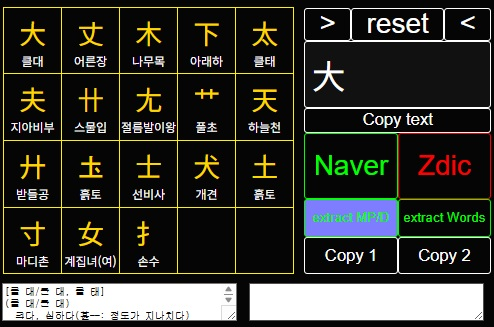
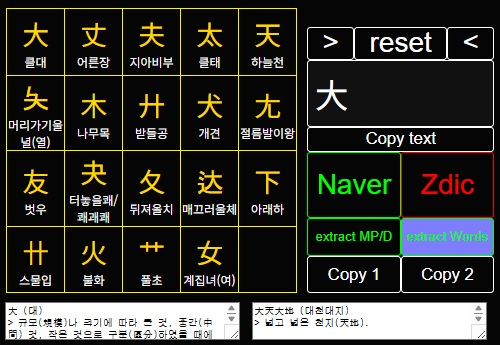
feat: extract hanja words and idioms via naver API

diff --git a/public/js/mainScript.js b/public/js/mainScript.js
@@ -4,66 +4,54 @@ document.addEventListener("DOMContentLoaded", () => {
   const btnPen   = document.getElementById("btnPen");
   const btnErase = document.getElementById("btnErase");
   const btnClear = document.getElementById("btnClear");
-  const ocrCanvas = document.getElementById("ocrCanvas");
-  const ctx = ocrCanvas.getContext("2d");
+  const ocrCanvas      = document.getElementById("ocrCanvas");
+  const ctx            = ocrCanvas.getContext("2d");
   const searchText     = document.getElementById("searchText");
   const ocrResultTable = document.getElementById("ocrResultTable");
   const TA_1 = document.getElementById("TA_1");
+  const TA_2 = document.getElementById("TA_2");
 
-  let currentMode = "pen";
-  let isDrawing   = false;
-  let currentStroke = [];
-  let strokes = [];
+  let currentMode = "pen", isDrawing = false, currentStroke = [], strokes = [];
 
-  btnPen.disabled  = true;
-  btnErase.disabled = false;
+  btnPen.disabled = true; btnErase.disabled = false;
 
   function switchMode(mode) {
     currentMode = mode;
-    btnPen.disabled   = (mode === "pen");
-    btnErase.disabled = (mode === "erase");
+    btnPen.disabled = (mode === "pen"); btnErase.disabled = (mode === "erase");
   }
   btnPen.addEventListener("click",   () => switchMode("pen"));
   btnErase.addEventListener("click", () => switchMode("erase"));
   btnClear.addEventListener("click", () => {
-    strokes = [];
-    ctx.clearRect(0, 0, ocrCanvas.width, ocrCanvas.height);
-    runOCR([]);
+    strokes = []; ctx.clearRect(0, 0, ocrCanvas.width, ocrCanvas.height); runOCR([]);
     if (currentMode === "erase") switchMode("pen");
   });
 
-  function getMousePos(e) {
-    const rect = ocrCanvas.getBoundingClientRect();
-    return { x: e.clientX - rect.left, y: e.clientY - rect.top };
-  }
-  function drawLine(points) {
-    if (points.length < 2) return;
+  function getMousePos(e) { const r = ocrCanvas.getBoundingClientRect(); return { x: e.clientX - r.left, y: e.clientY - r.top }; }
+  function drawLine(pts) {
+    if (pts.length < 2) return;
     ctx.strokeStyle = "#ffffff"; ctx.lineWidth = 5; ctx.lineCap = "round";
-    ctx.beginPath(); ctx.moveTo(points[0].x, points[0].y);
-    for (let i = 1; i < points.length; i++) ctx.lineTo(points[i].x, points[i].y);
+    ctx.beginPath(); ctx.moveTo(pts[0].x, pts[0].y);
+    for (let i = 1; i < pts.length; i++) ctx.lineTo(pts[i].x, pts[i].y);
     ctx.stroke();
   }
-  function redrawCanvas() {
-    ctx.clearRect(0, 0, ocrCanvas.width, ocrCanvas.height);
-    for (const s of strokes) drawLine(s);
-  }
-  function distanceToSegment(p, a, b) {
+  function redraw() { ctx.clearRect(0, 0, ocrCanvas.width, ocrCanvas.height); strokes.forEach(s => drawLine(s)); }
+  function distSeg(p, a, b) {
     const dx = b.x - a.x, dy = b.y - a.y;
-    if (dx === 0 && dy === 0) return Math.hypot(p.x - a.x, p.y - a.y);
+    if (!dx && !dy) return Math.hypot(p.x - a.x, p.y - a.y);
     const t = Math.max(0, Math.min(1, ((p.x - a.x) * dx + (p.y - a.y) * dy) / (dx * dx + dy * dy)));
     return Math.hypot(p.x - (a.x + t * dx), p.y - (a.y + t * dy));
   }
   function eraseAt(pos) {
     for (let i = 0; i < strokes.length; i++)
       for (let j = 0; j < strokes[i].length - 1; j++)
-        if (distanceToSegment(pos, strokes[i][j], strokes[i][j + 1]) <= 10) {
-          strokes.splice(i, 1); redrawCanvas(); runOCR(strokes); return;
+        if (distSeg(pos, strokes[i][j], strokes[i][j+1]) <= 10) {
+          strokes.splice(i, 1); redraw(); runOCR(strokes); return;
         }
   }
   ocrCanvas.addEventListener("mousedown", e => {
     const pos = getMousePos(e);
     if (currentMode === "pen") { isDrawing = true; currentStroke = [pos]; }
-    else if (currentMode === "erase") eraseAt(pos);
+    else eraseAt(pos);
   });
   ocrCanvas.addEventListener("mousemove", e => {
     const pos = getMousePos(e);
@@ -78,23 +66,17 @@ document.addEventListener("DOMContentLoaded", () => {
   window.addEventListener("mouseup", endStroke);
   ocrCanvas.addEventListener("mouseleave", endStroke);
 
-  function compressStrokes(raw) {
-    return raw.map(s => ({ s: s.length, xy: s.map(p => [Math.floor(p.x*(283/399)), Math.floor(p.y*(283/399))]) }));
-  }
-  function buildInputStr(info) {
+  function compress(raw) { return raw.map(s => ({ s: s.length, xy: s.map(p => [Math.floor(p.x*(283/399)), Math.floor(p.y*(283/399))]) })); }
+  function buildStr(info) {
     let s = "%3DR%20" + info.length;
-    info.forEach(stroke => {
-      s += "%0A%3DS%20" + stroke.s + "%0A";
-      stroke.xy.forEach(([x, y]) => s += x + "%20" + y + "%20");
-    });
+    info.forEach(stroke => { s += "%0A%3DS%20" + stroke.s + "%0A"; stroke.xy.forEach(([x,y]) => s += x + "%20" + y + "%20"); });
     return s;
   }
   async function runOCR(raw) {
     const cells = ocrResultTable.querySelectorAll("td");
-    if (!raw || raw.length === 0) { cells.forEach(c => c.innerHTML = ""); return; }
-    const inputStr = buildInputStr(compressStrokes(raw));
+    if (!raw || !raw.length) { cells.forEach(c => c.innerHTML = ""); return; }
     try {
-      const res = await fetch("/api/ocr", { method:"POST", headers:{"Content-Type":"application/json"}, body: JSON.stringify({ inputStr }) });
+      const res = await fetch("/api/ocr", { method:"POST", headers:{"Content-Type":"application/json"}, body: JSON.stringify({ inputStr: buildStr(compress(raw)) }) });
       const data = await res.json();
       const items = data.content.split(";").filter(Boolean);
       cells.forEach(c => c.innerHTML = "");
@@ -102,35 +84,27 @@ document.addEventListener("DOMContentLoaded", () => {
       for (let i = 0; i < Math.min(items.length, 20); i++) {
         const [char, desc] = items[i].split(",");
         if (!desc) continue;
-        cells[idx].innerHTML = `<div style="font-size:40px;color:gold;text-align:center">${char}</div><div style="font-size:18px;text-align:center">${desc}</div>`;
-        idx++;
+        cells[idx++].innerHTML = `<div style="font-size:40px;color:gold;text-align:center">${char}</div><div style="font-size:18px;text-align:center">${desc}</div>`;
       }
-    } catch (err) { console.error("OCR 요청 실패:", err); }
+    } catch (err) { console.error("OCR 실패:", err); }
   }
 
-  // Table cell click
   ocrResultTable.querySelectorAll("td").forEach(cell => {
     cell.addEventListener("click", () => {
-      if (cell.innerHTML.trim()) {
-        const d = cell.querySelectorAll("div");
-        if (d.length > 0) searchText.value += d[0].textContent.trim();
-      }
+      if (cell.innerHTML.trim()) { const d = cell.querySelectorAll("div"); if (d.length) searchText.value += d[0].textContent.trim(); }
     });
   });
 
-  // Text edit buttons
   document.getElementById("btnTextEraseL").addEventListener("click", () => searchText.value = searchText.value.slice(1));
   document.getElementById("btnTextEraseR").addEventListener("click", () => searchText.value = searchText.value.slice(0, -1));
   document.getElementById("btnTextReset").addEventListener("click",  () => searchText.value = "");
-  document.getElementById("btnCopyText").addEventListener("click", () => { searchText.focus(); searchText.select(); document.execCommand("copy"); });
+  document.getElementById("btnCopyText").addEventListener("click",   () => { searchText.focus(); searchText.select(); document.execCommand("copy"); });
 
-  // Naver search
   document.getElementById("btnSearchN").addEventListener("click", () => {
     const q = searchText.value.trim();
     if (q) window.open("https://hanja.dict.naver.com/#/search?query=" + encodeURIComponent(q), "_blank");
   });
 
-  // ExtractMP
   document.getElementById("btnExtractMP").addEventListener("click", async () => {
     const sText = searchText.value.trim();
     if (!sText) { alert("검색어가 비어 있습니다."); return; }
@@ -138,9 +112,23 @@ document.addEventListener("DOMContentLoaded", () => {
       const res = await fetch("/api/ExtractMP", { method:"POST", headers:{"Content-Type":"application/json"}, body: JSON.stringify({ text: sText }) });
       const result = await res.json();
       const d = result["data"];
-      TA_1.value = d["MP"] + "\n\n" + JSON.parse(d["learningMoreList"]).join("\n\n");
+      TA_1.value = d["MP"];
+      TA_2.value = JSON.parse(d["learningMoreList"]).join("\n\n");
+    } catch (err) { alert("네트워크 오류: " + err.message); }
+  });
+
+  document.getElementById("btnExtractWords").addEventListener("click", async () => {
+    const sText = searchText.value.trim();
+    if (!sText) { alert("검색어가 비어 있습니다."); return; }
+    try {
+      const res = await fetch("/api/ExtractWords", { method:"POST", headers:{"Content-Type":"application/json"}, body: JSON.stringify({ text: sText }) });
+      const result = await res.json();
+      const d = result["data"];
+      TA_1.value = d["Words"];
+      TA_2.value = d["Idioms"];
     } catch (err) { alert("네트워크 오류: " + err.message); }
   });
 
   document.getElementById("btnCopyText1").addEventListener("click", () => { TA_1.focus(); TA_1.select(); document.execCommand("copy"); });
+  document.getElementById("btnCopyText2").addEventListener("click", () => { TA_2.focus(); TA_2.select(); document.execCommand("copy"); });
 });

diff --git a/server.js b/server.js
@@ -12,7 +12,6 @@ app.use(express.static('public'));
 app.use(express.json());
 app.use(express.static('./public'));
 
-// 획(좌표) 정보에 대해 OCR 요청 전송
 app.post("/api/ocr", async (req, res) => {
   try {
     const inputStr = req.body.inputStr;
@@ -31,13 +30,11 @@ app.post("/api/ocr", async (req, res) => {
   }
 });
 
-// 뜻음 + 기원설명 추출
 app.post("/api/ExtractMP", async (req, res) => {
   try {
     const hanjaText = req.body.text;
-    if (!hanjaText || typeof hanjaText !== "string") {
+    if (!hanjaText || typeof hanjaText !== "string")
       return res.json({ success: false, error: "유효하지 않은 입력입니다." });
-    }
 
     const headers = {
       "User-Agent": "Mozilla/5.0 (Windows NT 10.0; Win64; x64) AppleWebKit/537.36 (KHTML, like Gecko) Chrome/135.0.0.0 Safari/537.36 Edg/135.0.0.0",
@@ -46,20 +43,17 @@ app.post("/api/ExtractMP", async (req, res) => {
     };
 
     const searchUrl = `https://hanja.dict.naver.com/api3/ccko/search?query=${encodeURIComponent(hanjaText)}&m=pc&range=letter&page=1`;
-    const searchResp = await fetch(searchUrl, { headers });
-    const searchData = await searchResp.json().catch(() => null);
+    const searchData = await (await fetch(searchUrl, { headers })).json().catch(() => null);
     if (!searchData) return res.json({ success: false, error: "1. search request error" });
 
     const items = searchData?.searchResultMap?.searchResultListMap?.LETTER?.items;
     if (!items || items.length === 0) return res.json({ success: false, error: "2. empty search list" });
 
-    const destinationLink = items[0]?.destinationLink;
-    const entryId = destinationLink?.split("/")[3];
-    if (!entryId || typeof entryId !== "string") return res.json({ success: false, error: "3. entryId error" });
+    const entryId = items[0]?.destinationLink?.split("/")[3];
+    if (!entryId) return res.json({ success: false, error: "3. entryId error" });
 
     const detailUrl = `https://hanja.dict.naver.com/api/platform/ccko/entry?entryId=${entryId}&isConjsShowTTS=true&searchResult=false`;
-    const detailResp = await fetch(detailUrl, { headers });
-    const detailData = await detailResp.json().catch(() => null);
+    const detailData = await (await fetch(detailUrl, { headers })).json().catch(() => null);
     if (!detailData) return res.json({ success: false, error: "4. hanja description request error" });
 
     const means = detailData?.entry?.means;
@@ -70,17 +64,12 @@ app.post("/api/ExtractMP", async (req, res) => {
       let s = "  ".repeat((m.mean_level || 1) - 1);
       const origin = (m.origin_mean || "").trim();
       const show   = (m.show_mean   || "").trim();
-      if (origin)     s += origin;
-      else if (show)  s += show;
-      else continue;
+      if (origin) s += origin; else if (show) s += show; else continue;
       parseList.push(s);
     }
 
-    const MP = parseList.join("\n");
-
-    const learningMores = detailData?.entry?.group?.learningMores;
-    let learningMoreList = [];
-    for (const lm of learningMores) {
+    const learningMoreList = [];
+    for (const lm of (detailData?.entry?.group?.learningMores || [])) {
       const title = (lm.learning_info_title || "").trim();
       const body  = (lm.learning_info_body  || "").trim();
       if (title && body) {
@@ -93,7 +82,93 @@ app.post("/api/ExtractMP", async (req, res) => {
       }
     }
 
-    res.json({ success: true, data: { MP, learningMoreList: JSON.stringify(learningMoreList) } });
+    res.json({ success: true, data: { MP: parseList.join("\n"), learningMoreList: JSON.stringify(learningMoreList) } });
+  } catch (err) {
+    console.error("서버 에러:", err);
+    res.json({ success: false, error: "서버 처리 중 예외 발생" });
+  }
+});
+
+// 관련단어, 성어 추출
+app.post("/api/ExtractWords", async (req, res) => {
+  try {
+    const hanjaText = req.body.text;
+    if (!hanjaText || typeof hanjaText !== "string")
+      return res.json({ success: false, error: "유효하지 않은 입력입니다." });
+
+    const headers = {
+      "User-Agent": "Mozilla/5.0 (Windows NT 10.0; Win64; x64) AppleWebKit/537.36 (KHTML, like Gecko) Chrome/135.0.0.0 Safari/537.36 Edg/135.0.0.0",
+      "Accept-Language": "ko,en;q=0.9,en-US;q=0.8",
+      "Referer": "https://hanja.dict.naver.com/"
+    };
+
+    async function searchExpression(range, page) {
+      const url = `https://hanja.dict.naver.com/api3/ccko/search?query=${encodeURIComponent(hanjaText)}&m=pc&range=${range}&page=${page}&shouldSearchOpen=true`;
+      const data = await (await fetch(url, { headers })).json().catch(() => null);
+      if (!data) return null;
+      return data?.searchResultMap?.searchResultListMap;
+    }
+
+    async function retrieveWordEntryInfoPage1() {
+      const url = `https://hanja.dict.naver.com/api3/ccko/search?query=${encodeURIComponent(hanjaText)}&m=pc&range=wordEntry&page=1&shouldSearchOpen=true`;
+      const data = await (await fetch(url, { headers })).json().catch(() => null);
+      if (!data) return null;
+      return {
+        pageSize:   data?.pagerInfo?.pageSize,
+        totalRows:  data?.pagerInfo?.totalRows,
+        totalPages: Math.min(10, data?.pagerInfo?.totalPages)
+      };
+    }
+
+    const keywords = ['조선','고려','신라','백제','고구려','가야','이름.','http://','https://','의 자(字)','의 호(號)','자(字)는','호(號)는'];
+
+    const wsInfo = await retrieveWordEntryInfoPage1();
+    const wordList = [];
+
+    for (let page = 1; page <= (wsInfo?.totalPages || 0); page++) {
+      if (wordList.length >= 45) break;
+      const result = await searchExpression("wordEntry", page);
+      const wordEntry = result?.WORDENTRY;
+      const items = wordEntry?.items;
+      if (!items || items.length === 0) break;
+
+      for (const item of items) {
+        if (wordList.length >= 45) break;
+        const expEntry       = item?.expEntry.replace(/<\/?strong>/g, '').trim();
+        const expKoreanPron  = item?.expKoreanPron.replace(/<\/?strong>/g, '').trim();
+        if (expKoreanPron.length >= 6) continue;
+
+        const meanList = [];
+        for (const mean of item?.meansCollector[0].means)
+          if (mean?.value) meanList.push('> ' + mean?.value.replace(/<\/?strong>/g, ''));
+
+        const meanJoin = meanList.join("\n");
+        if (keywords.some(k => meanJoin.includes(k))) continue;
+        wordList.push(expEntry + " (" + expKoreanPron + ")\n" + meanJoin);
+      }
+    }
+
+    // 성어 추출 (1~3페이지)
+    const idiomList = [];
+    for (let page = 1; page <= 3; page++) {
+      const result = await searchExpression("wordIdiom", page);
+      const wordIdiom = result?.WORDIDIOM;
+      const items = wordIdiom?.items;
+      if (!items || items.length === 0) break;
+
+      for (const item of items) {
+        const expEntry      = item?.expEntry.replace(/<\/?strong>/g, '').trim();
+        const expKoreanPron = item?.expKoreanPron.replace(/<\/?strong>/g, '').trim();
+        const meanList = [];
+        for (const mean of item?.meansCollector[0].means)
+          if (mean?.value) meanList.push('> ' + mean?.value.replace(/<\/?strong>/g, ''));
+        idiomList.push(expEntry + " (" + expKoreanPron + ")\n" + meanList.join("\n"));
+      }
+
+      if (Number(wordIdiom?.total) < (page * 15) + 1) break;
+    }
+
+    res.json({ success: true, data: { Words: wordList.join("\n\n"), Idioms: idiomList.join("\n\n") } });
   } catch (err) {
     console.error("서버 에러:", err);
     res.json({ success: false, error: "서버 처리 중 예외 발생" });

diff --git a/README.md b/README.md
@@ -1,24 +1,24 @@
-# 한자 뜻·기원 설명 추출 기능 구현
+# 한자 단어·성어 추출 기능 구현
 
-네이버 한자사전 내부 API에서 뜻 목록(Meaning)과 기원 설명(Pedigree)을 파싱하여 표시.
+네이버 한자사전에서 관련 단어(`wordEntry`)와 성어(`wordIdiom`)를 파싱하고 불필요 항목을 필터링.
 
 ## 변경사항
 
-- `server.js`: `/api/ExtractMP` POST 엔드포인트 추가
-  1. 한자 검색 API → `destinationLink`에서 entryId 추출
-  2. Entry 상세 API → `means` 배열 파싱 (뜻 목록, 들여쓰기 레벨 적용)
-  3. `group.learningMores` → 기원 설명 텍스트 추출 (HTML div 포함 시 cheerio 파싱)
-- `public/js/mainScript.js`: ExtractMP 버튼 핸들러, TA_1(뜻) + TA_2(기원) 표시
+- `server.js`: `/api/ExtractWords` POST 엔드포인트 추가
+  - `wordEntry`: 최대 10페이지 탐색, 45개 단어 수집
+  - `wordIdiom`: 최대 3페이지 성어 수집
+  - 필터링 키워드: 조선·고려·신라·백제·고구려·가야·지역명·책 이름 포함 항목 제거
+- `public/js/mainScript.js`: ExtractWords 버튼 핸들러, TA(단어/성어) 표시
 
 ## API
 
 ```
-POST /api/ExtractMP
+POST /api/ExtractWords
 Body:     { "text": "한자" }
-Response: { "success": true, "data": { "MP": "뜻 목록", "learningMoreList": "[...]" } }
+Response: { "success": true, "data": { "Words": "단어 목록", "Idioms": "성어 목록" } }
 ```
 
 ## 화면
 
 ![](./images/a.jpg)
-<p align="center"><ExtractMP 실행 후 뜻 목록(TA_1)과 기원 설명(TA_2) 표시></p>
+<p align="center"><ExtractWords 실행 후 관련 단어/성어 목록 (TA)></p>
